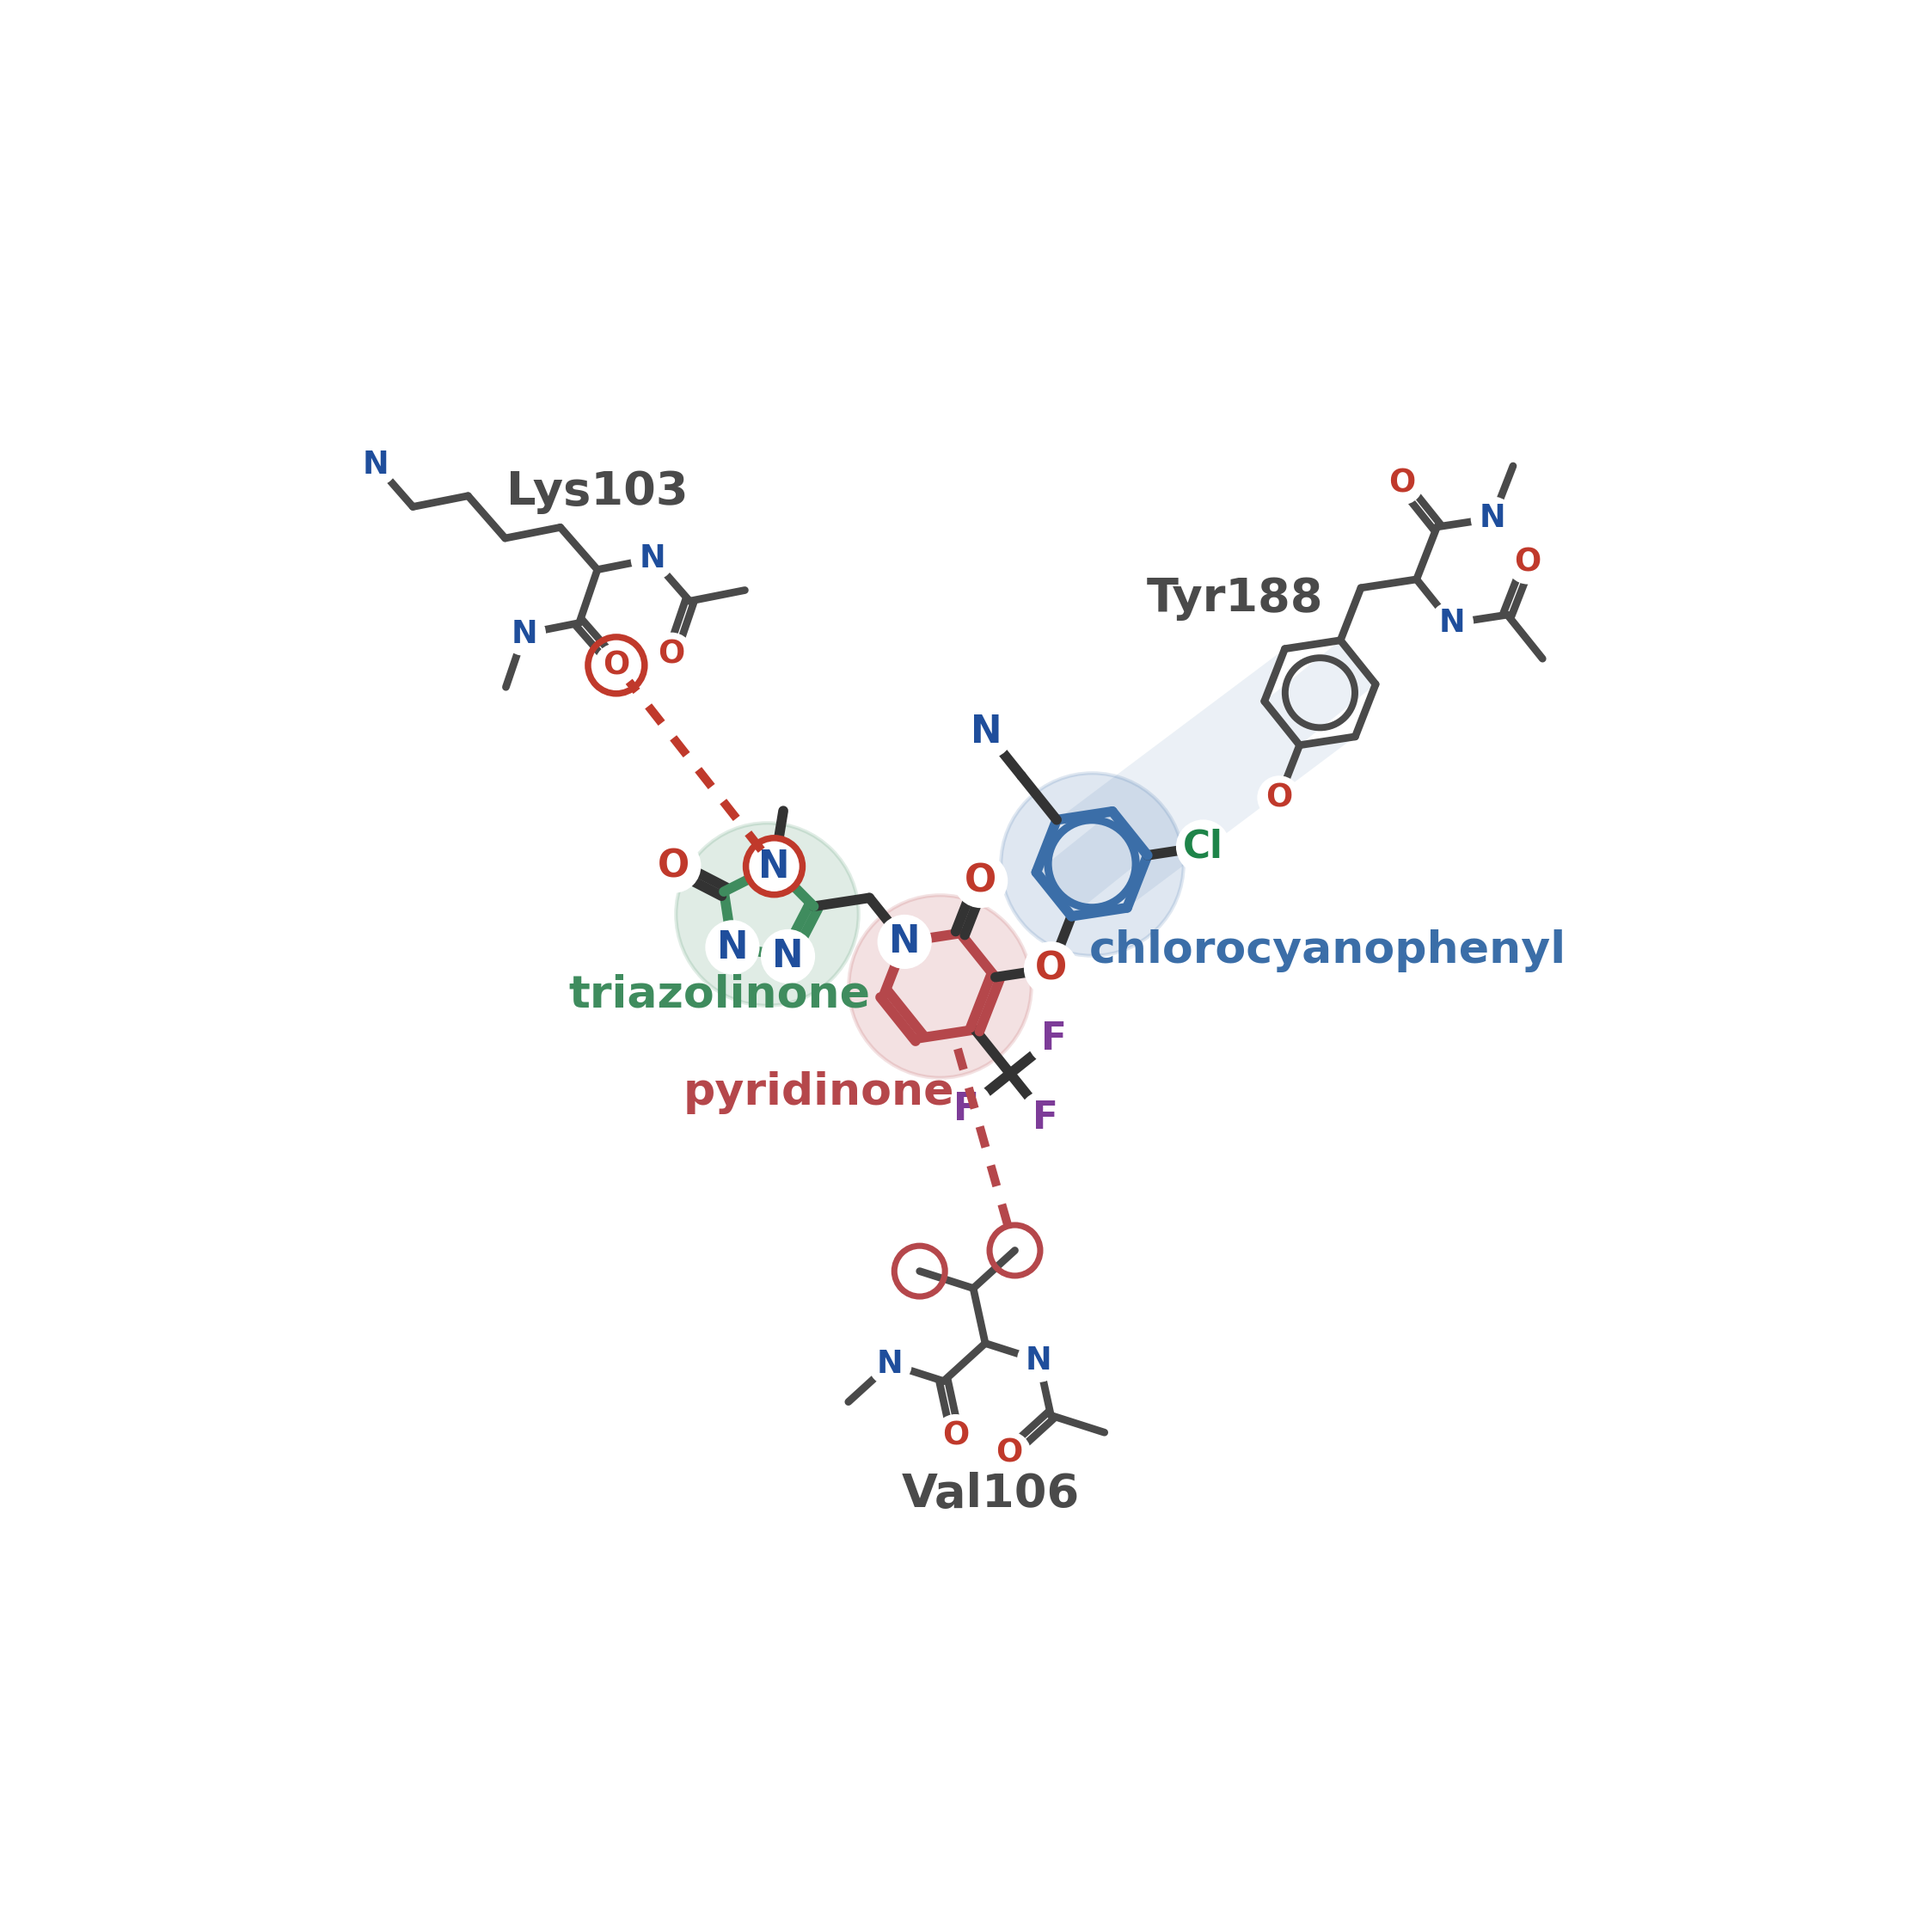
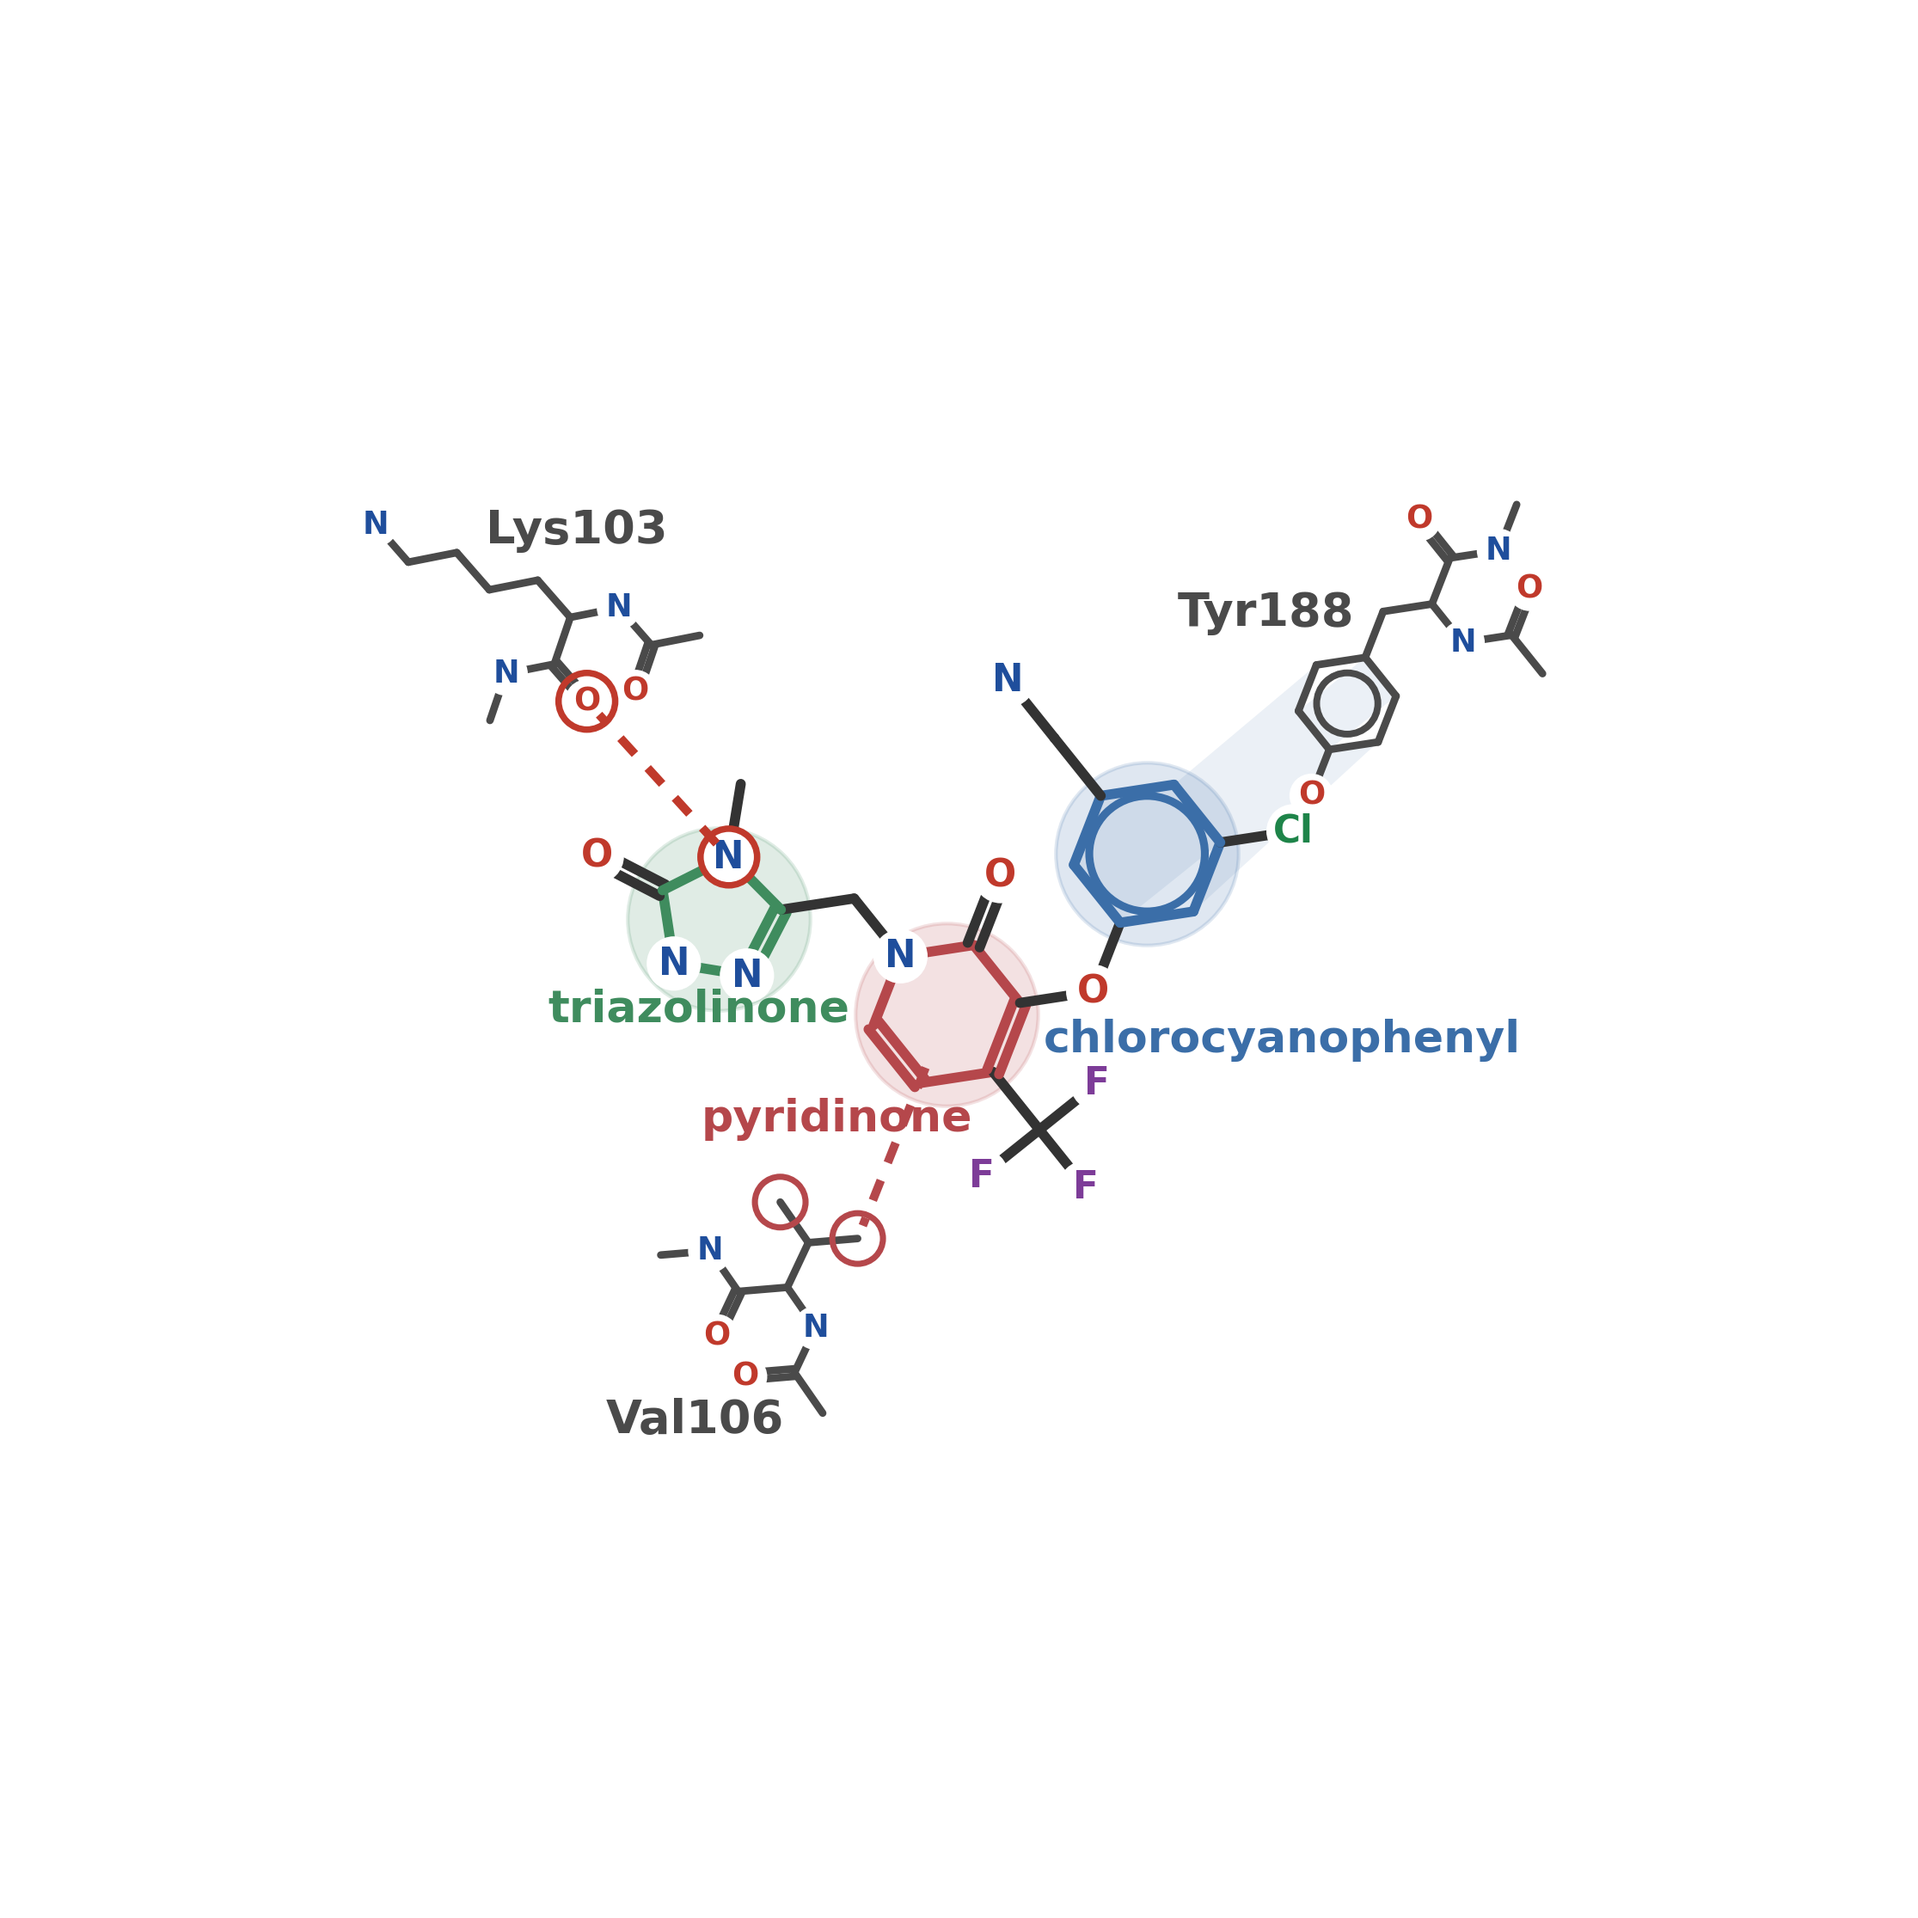
Figure 1B: lengthen DOR's bonds and route the Val106 line clear of the CF3
DOR's 2D coordinates are scaled by --dor-scale (default 1.5). Atom labels are
drawn in points and keep a fixed size on the page, so scaling only the structure
lengthens its bonds relative to the labels and interaction lines -- scaling
everything would be a no-op once the axes autoscale. The double-bond separation
scales with it.

The Val106 contact line left the pyridinone heading straight down, which took it
through the trifluoromethyl group; it now exits down-left, on the side away from
the CF3, so no fluorine sits on the dashed line.

Changed region(s): [[0.2784, 0.2474, 0.8041, 0.8041], [0.1856, 0.2165, 0.3711, 0.4021]]

diff --git a/src/analysis/cli/plot_dor_schematic.py b/src/analysis/cli/plot_dor_schematic.py
@@ -307,6 +307,8 @@ def main() -> int:
     ap.add_argument("--structure", type=Path,
                     default=repo / "results/md_runs/wt/rep_01/wt_minimized_rep01.pdb")
     ap.add_argument("--sdf", type=Path, default=repo / "data/ligands/dor.sdf")
+    ap.add_argument("--dor-scale", type=float, default=1.5,
+                    help="bond length of DOR relative to the residues and labels")
     ap.add_argument("--output", type=Path,
                     default=repo / "results/plots/figure1B_dor_schematic.pdf")
     args = ap.parse_args()
@@ -318,6 +320,12 @@ def main() -> int:
     conf = mol.GetConformer()
     D2 = np.array([[conf.GetAtomPosition(i).x, conf.GetAtomPosition(i).y]
                    for i in range(mol.GetNumAtoms())])
+    # Atom labels are drawn in points and so keep a fixed size on the page,
+    # while the structure is drawn in data units. Scaling DOR up therefore
+    # lengthens its bonds RELATIVE to the labels and interaction lines, which is
+    # what relieves the crowding -- a uniform scaling of everything would be a
+    # no-op once the axes autoscale.
+    D2 = D2 * args.dor_scale
     d2_names = [a.GetSymbol() for a in mol.GetAtoms()]
     rings2 = {}
     for ring in mol.GetRingInfo().AtomRings():
@@ -372,7 +380,7 @@ def main() -> int:
         if b.GetBondTypeAsDouble() == 2.0 and not in_benzene:
             d = q - p
             n = np.array([-d[1], d[0]])
-            n = n / (np.linalg.norm(n) + 1e-9) * 0.13
+            n = n / (np.linalg.norm(n) + 1e-9) * 0.13 * args.dor_scale
             for sgn in (+1, -1):
                 ax.plot(*zip(p + n * sgn, q + n * sgn), color=col, lw=2.8,
                         zorder=3, solid_capstyle="round")
@@ -450,7 +458,9 @@ def main() -> int:
     g1, g2 = val["gammas"]
     P = val["xy"].copy()
     gmid = (P[g1] + P[g2]) / 2
-    want = np.array([0.10, -1.0]); want /= np.linalg.norm(want)
+    # exit on the side opposite the trifluoromethyl: heading straight down took
+    # the dashed contact line through the CF3 fluorines
+    want = np.array([-0.62, -1.0]); want /= np.linalg.norm(want)
     v = gmid - P.mean(axis=0)
     P = (P - P.mean(axis=0)) @ rot(np.arctan2(-want[1], -want[0])
                                    - np.arctan2(v[1], v[0])).T
